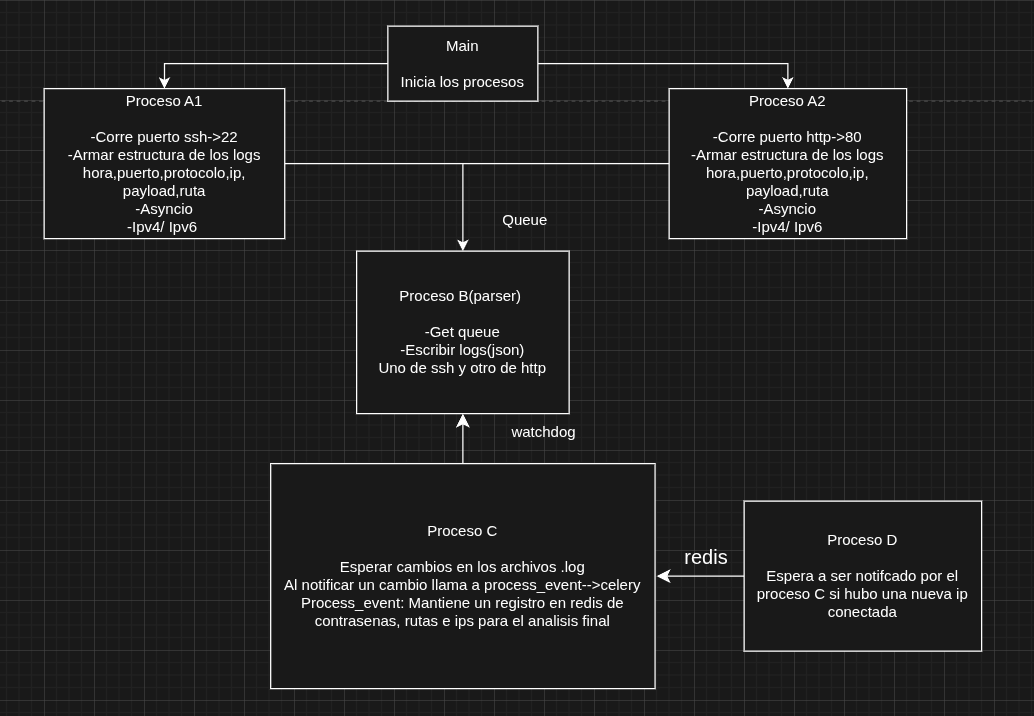
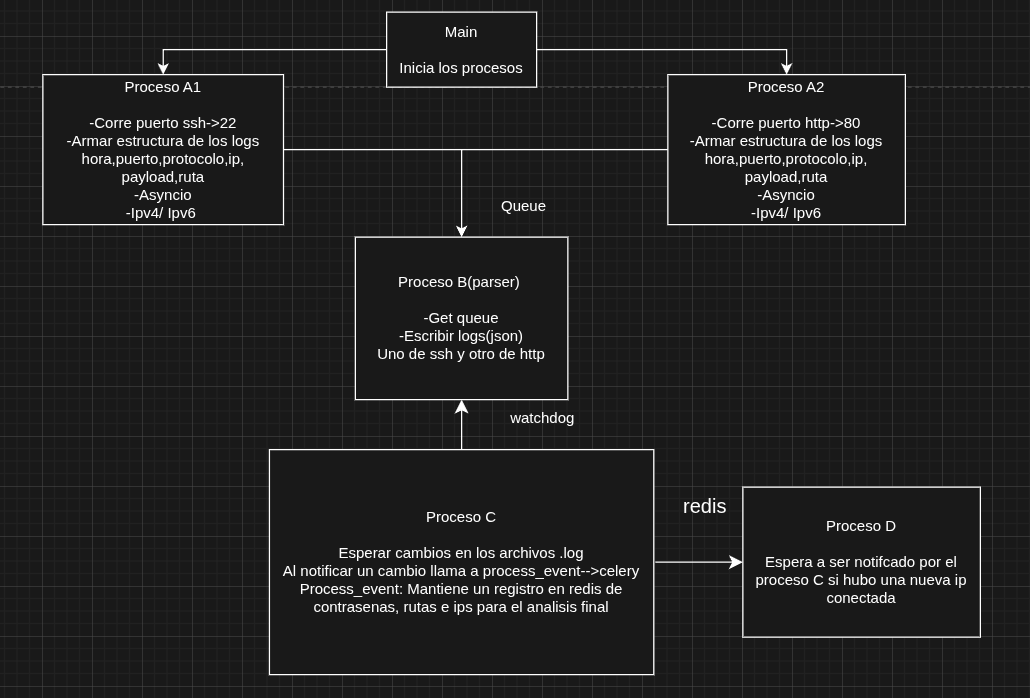
Final fixes

diff --git a/main.py b/main.py
@@ -3,7 +3,6 @@ import redis
 import asyncio
 import signal
 import sys
-import multiprocessing
 from multiprocessing import Process, Queue
 
 from ssh_server import run_ssh_server
@@ -16,6 +15,9 @@ import argparse
 from send_summary import send_email
 import datetime
 from send_summary import *
+
+
+
 # --- Conexión a Redis ---
 REDIS_HOST = os.getenv("REDIS_HOST", "localhost")
 REDIS_PORT = int(os.getenv("REDIS_PORT", 6379))
@@ -29,7 +31,7 @@ arg_parser.add_argument('--ssh', type=int, default=5,
 arg_parser.add_argument('--http', type=int, default=5,
                         help='Number of top http requests to show (default 5).')
 arg_parser.add_argument('--email', type=str,help='Email address to send summary (not required)')
-arg_parser.add_argument('--filename', type=str,help='Filename to save summary (not required)')
+arg_parser.add_argument('--filename', type=str,help='Filename to save summary .html (not required)')
 args = arg_parser.parse_args()
 
 
@@ -64,16 +66,15 @@ def main(processes):
         end_time=end_time
     )
     if args.email:    
-        send_mail=input("¿Desea enviar un correo con los datos obtenidos? (S/N): ")
-    else:
-        send_mail="N"
-    if send_mail.lower() == "s":
-
-        send_email(
-            subject="Resumen de actividad de la sesion del honeypot",
-            recipients=args.email,
-            html_body=html_reporte
-        )
+        send_mail=input("¿Desea enviar el reporte por email? (S/N)")
+        if send_mail.lower()=="s":
+            send_email(
+                subject="Resumen de actividad de la sesion del honeypot",
+                recipients=args.email,
+                html_body=html_reporte
+            )
+        else:
+            save_to_html_file(html_reporte,args.filename)
     else:
         save_to_html_file(html_reporte,args.filename)
         

diff --git a/ssh_server.py b/ssh_server.py
@@ -66,14 +66,12 @@ async def run_ssh_server(q):
     loop = asyncio.get_running_loop()
     SSH_PORT = int(os.getenv("SSH_PORT", 2222))
     
-    # 1. Crear Socket para IPv4
     sock_v4 = socket.socket(socket.AF_INET, socket.SOCK_STREAM)
     sock_v4.setsockopt(socket.SOL_SOCKET, socket.SO_REUSEADDR, 1)
     sock_v4.bind(("0.0.0.0", SSH_PORT))
     sock_v4.listen()
     sock_v4.setblocking(False)
 
-    # 2. Crear Socket para IPv6
     try:
         sock_v6 = socket.socket(socket.AF_INET6, socket.SOCK_STREAM)
         sock_v6.setsockopt(socket.SOL_SOCKET, socket.SO_REUSEADDR, 1)

diff --git a/celery_worker/tasks.py b/celery_worker/tasks.py
@@ -26,6 +26,9 @@ def process_event(event):
         print(f"IP: {ip}")
         # Normalizar si viene de IPv6 dual-stack
         clean_ip = ip.replace("::ffff:", "") if ip.startswith("::ffff:") else ip
+       
+       
+       
         r.sadd("ips", clean_ip)    # ip = event["ip"]
         r.publish("canal_ips", f"{server} -> {clean_ip}")
 

diff --git a/http_server.py b/http_server.py
@@ -42,7 +42,6 @@ async def run_http_server(q):
 
     HTTP_PORT = int(os.getenv("HTTP_PORT", 8080))
 
-    # Definimos los dos sitios: uno para IPv4 y otro para IPv6
     site_v4 = web.TCPSite(runner, "0.0.0.0", HTTP_PORT)
     site_v6 = web.TCPSite(runner, "::", HTTP_PORT)
     
